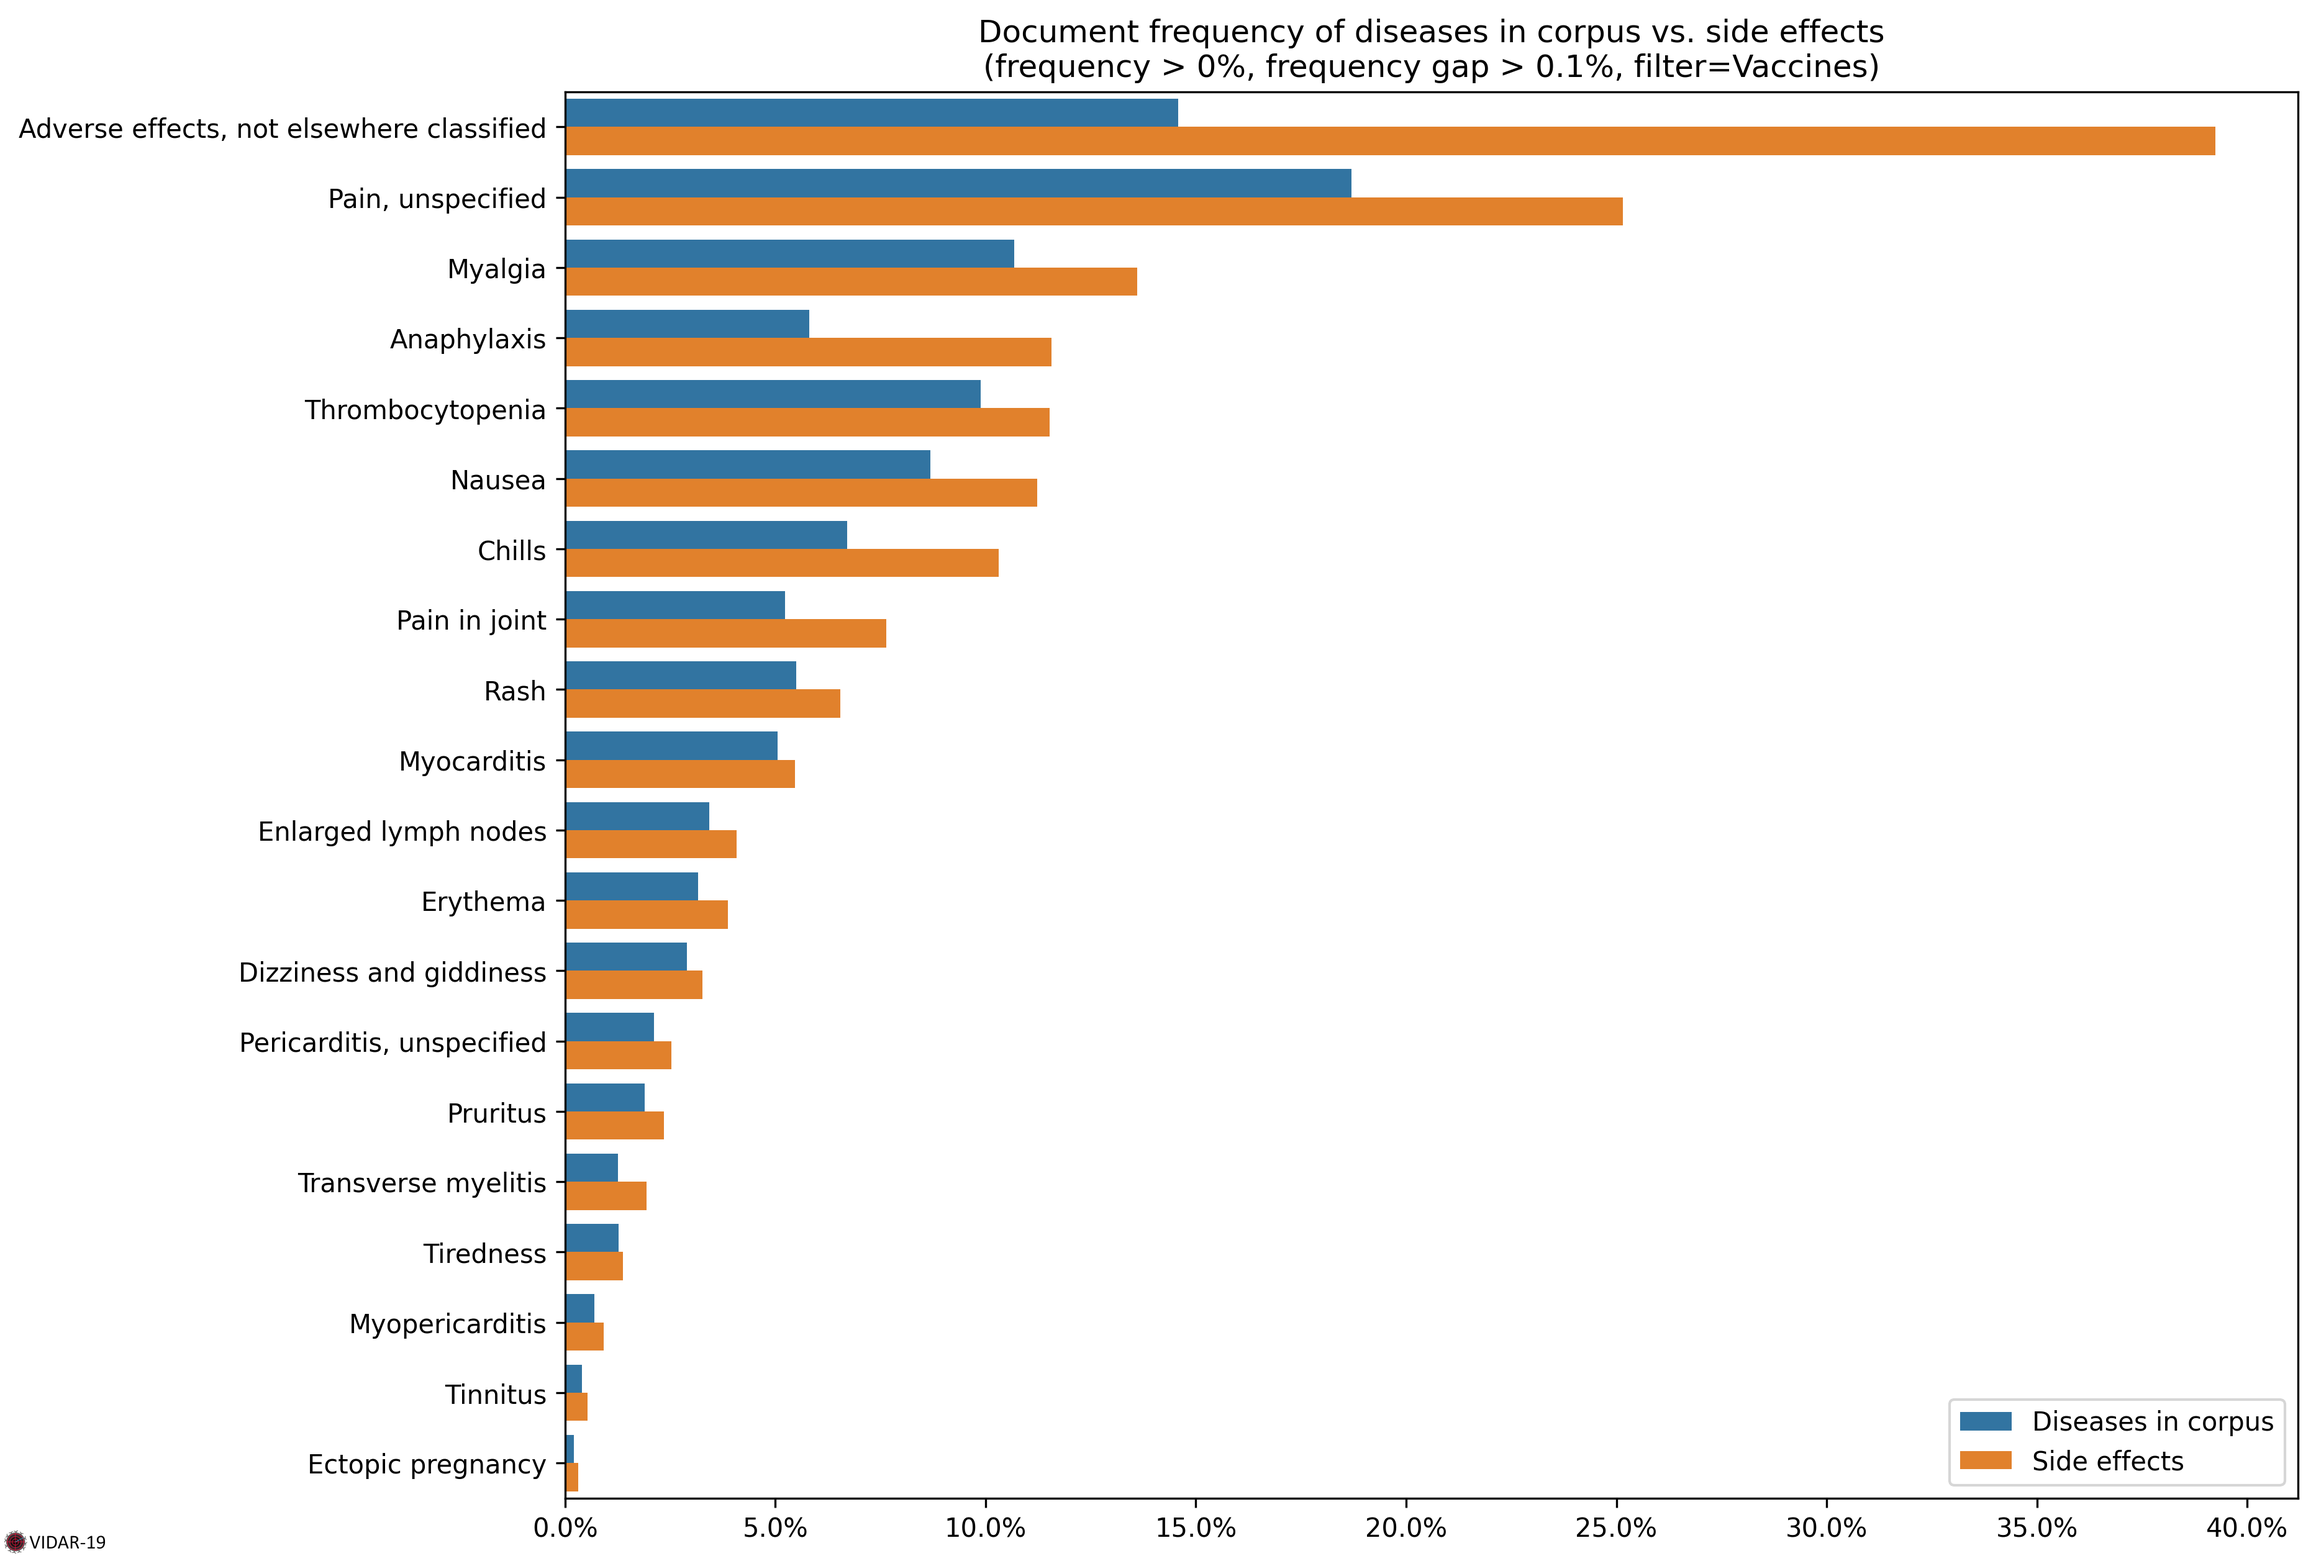
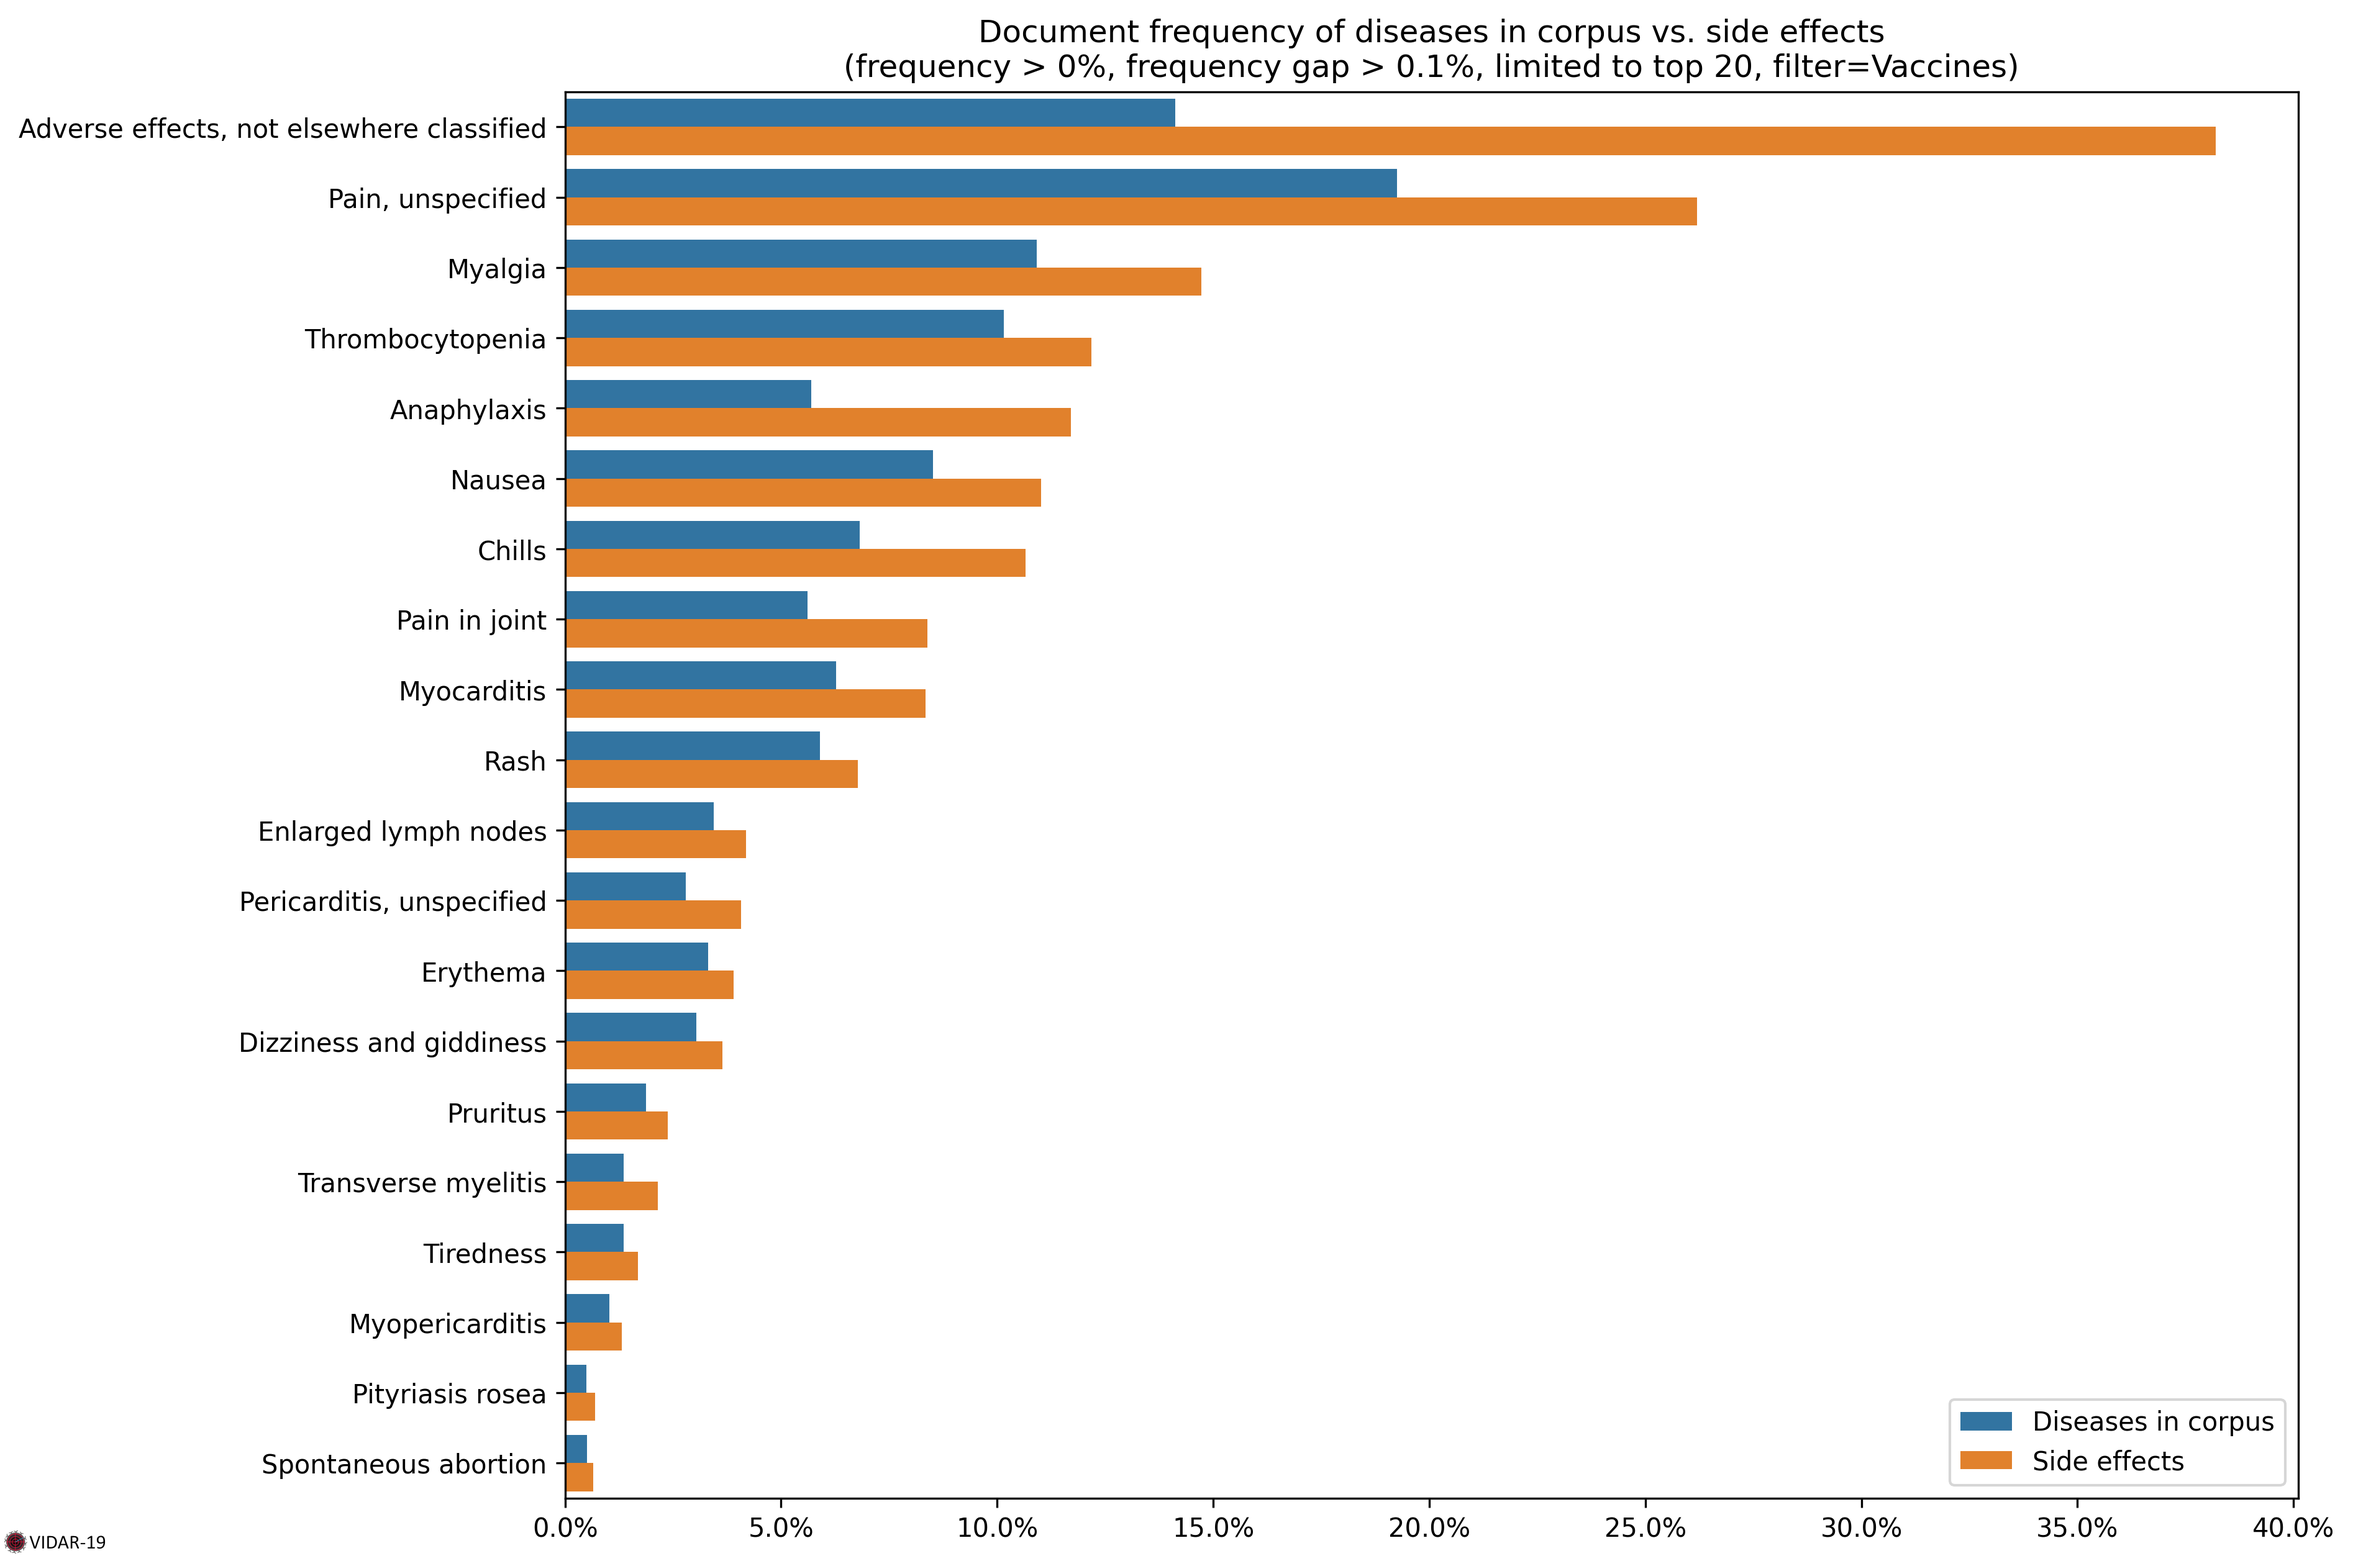
last update CORD-19

diff --git a/vaccines-side-effects.md b/vaccines-side-effects.md
@@ -10,24 +10,25 @@ As of 2/06/2022, vaccines side effects have been computed on 21K documents deali
 
 ### Table
 
-| Code   | Title                                     | Diseases in corpus | Side effects | Ratio |
-| :----- | :---------------------------------------- | -----------------: | -----------: | ----: |
-| NF09   | Adverse effects, not elsewhere classified |               14.6 |         39.2 |   2.7 |
-| MG3Z   | Pain, unspecified                         |               18.7 |         25.1 |   1.3 |
-| FB56.2 | Myalgia                                   |               10.7 |         13.6 |   1.3 |
-| 4A84   | Anaphylaxis                               |                5.8 |         11.6 |     2 |
-| 3B64   | Thrombocytopenia                          |                9.9 |         11.5 |   1.2 |
-| MD90.0 | Nausea                                    |                8.7 |         11.2 |   1.3 |
-| MG21   | Chills                                    |                6.7 |         10.3 |   1.5 |
-| ME82   | Pain in joint                             |                5.2 |          7.6 |   1.5 |
-| ME66.6 | Rash                                      |                5.5 |          6.5 |   1.2 |
-| BC42   | Myocarditis                               |                5.1 |          5.5 |   1.1 |
-| MA01   | Enlarged lymph nodes                      |                3.4 |          4.1 |   1.2 |
-| ME64.0 | Erythema                                  |                3.2 |          3.9 |   1.2 |
-| MB48   | Dizziness and giddiness                   |                2.9 |          3.3 |   1.1 |
-| BB2Z   | Pericarditis, unspecified                 |                2.1 |          2.5 |   1.2 |
-| EC90   | Pruritus                                  |                1.9 |          2.4 |   1.2 |
-| 8A41.0 | Transverse myelitis                       |                1.3 |          1.9 |   1.5 |
-| MB22.7 | Tiredness                                 |                1.3 |          1.4 |   1.1 |
-| BB20.2 | Myopericarditis                           |                0.7 |          0.9 |   1.3 |
-| MC41   | Tinnitus                                  |                0.4 |          0.5 |   1.5 |
+| Code   | Title                                     |   Diseases in corpus |   Side effects |   Ratio |
+|:-------|:------------------------------------------|---------------------:|---------------:|--------:|
+| NF09   | Adverse effects, not elsewhere classified |                 14.1 |           38.2 |     2.7 |
+| MG3Z   | Pain, unspecified                         |                 19.3 |           26.2 |     1.4 |
+| FB56.2 | Myalgia                                   |                 10.9 |           14.7 |     1.3 |
+| 3B64   | Thrombocytopenia                          |                 10.2 |           12.2 |     1.2 |
+| 4A84   | Anaphylaxis                               |                  5.7 |           11.7 |     2.1 |
+| MD90.0 | Nausea                                    |                  8.5 |           11   |     1.3 |
+| MG21   | Chills                                    |                  6.8 |           10.7 |     1.6 |
+| ME82   | Pain in joint                             |                  5.6 |            8.4 |     1.5 |
+| BC42   | Myocarditis                               |                  6.3 |            8.3 |     1.3 |
+| ME66.6 | Rash                                      |                  5.9 |            6.8 |     1.1 |
+| MA01   | Enlarged lymph nodes                      |                  3.4 |            4.2 |     1.2 |
+| BB2Z   | Pericarditis, unspecified                 |                  2.8 |            4.1 |     1.5 |
+| ME64.0 | Erythema                                  |                  3.3 |            3.9 |     1.2 |
+| MB48   | Dizziness and giddiness                   |                  3   |            3.6 |     1.2 |
+| EC90   | Pruritus                                  |                  1.9 |            2.4 |     1.3 |
+| 8A41.0 | Transverse myelitis                       |                  1.4 |            2.1 |     1.6 |
+| MB22.7 | Tiredness                                 |                  1.4 |            1.7 |     1.2 |
+| BB20.2 | Myopericarditis                           |                  1   |            1.3 |     1.3 |
+| EA10   | Pityriasis rosea                          |                  0.5 |            0.7 |     1.4 |
+| JA00.0 | Spontaneous abortion                      |                  0.5 |            0.6 |     1.3 |

diff --git a/covid-19-risk-factors.md b/covid-19-risk-factors.md
@@ -12,21 +12,21 @@ As of 2/06/2022, risk factors have been computed on 275K documents dealing with 
 
 ### Table
 
-| Code   | Title                                         | Diseases in corpus | Risk factors | Ratio |
-| :----- | :-------------------------------------------- | -----------------: | -----------: | ----: |
-| 5B81   | Obesity                                       |                8.8 |         19.3 |   2.2 |
-| MG2A   | Old age                                       |                5.3 |          7.7 |   1.4 |
-| 5A13   | Diabetes mellitus, other specified type       |                5.1 |          7.5 |   1.5 |
-| 8B20   | Stroke not known if ischaemic or haemorrhagic |                6.1 |          6.6 |   1.1 |
-| GB61   | Chronic kidney disease                        |                3.8 |          4.9 |   1.3 |
-| 5A11   | Type 2 diabetes mellitus                      |                3.3 |          4.2 |   1.3 |
-| 5B80.0 | Overweight                                    |                2.1 |          3.4 |   1.6 |
-| BA00   | Essential hypertension                        |                1.6 |          2.1 |   1.3 |
-| 5B57   | Vitamin D deficiency                          |                0.6 |            1 |   1.6 |
-| 1F2C   | Mucormycosis                                  |                0.3 |          0.7 |   2.3 |
-| DB92   | Non-alcoholic fatty liver disease             |                0.6 |          0.7 |   1.3 |
-| 6C40.1 | Harmful pattern of use of alcohol             |                0.6 |          0.7 |   1.2 |
-| 8B2Z   | Cerebrovascular diseases, unspecified         |                0.5 |          0.7 |   1.3 |
-| 5A24   | Uncontrolled or unstable diabetes mellitus    |                0.3 |          0.5 |   1.7 |
-| 3B61   | Thrombophilia                                 |                0.3 |          0.5 |   1.9 |
-| 1F20.0 | Invasive aspergillosis                        |                0.3 |          0.4 |   1.6 |
+| Code   | Title                                         |   Diseases in corpus |   Risk factors |   Ratio |
+|:-------|:----------------------------------------------|---------------------:|---------------:|--------:|
+| 5B81   | Obesity                                       |                  9.1 |           19.7 |     2.2 |
+| 5A13   | Diabetes mellitus, other specified type       |                  5.2 |            7.6 |     1.5 |
+| MG2A   | Old age                                       |                  5.4 |            7.5 |     1.4 |
+| 8B20   | Stroke not known if ischaemic or haemorrhagic |                  6.3 |            6.8 |     1.1 |
+| GB61   | Chronic kidney disease                        |                  3.8 |            5   |     1.3 |
+| 5A11   | Type 2 diabetes mellitus                      |                  3.5 |            4.4 |     1.2 |
+| 5B80.0 | Overweight                                    |                  2.3 |            3.6 |     1.6 |
+| BA00   | Essential hypertension                        |                  1.6 |            2.1 |     1.3 |
+| 5B57   | Vitamin D deficiency                          |                  0.6 |            1   |     1.7 |
+| 1F2C   | Mucormycosis                                  |                  0.4 |            0.9 |     2.3 |
+| DB92   | Non-alcoholic fatty liver disease             |                  0.6 |            0.7 |     1.3 |
+| 8B2Z   | Cerebrovascular diseases, unspecified         |                  0.5 |            0.7 |     1.3 |
+| 5A24   | Uncontrolled or unstable diabetes mellitus    |                  0.3 |            0.6 |     1.7 |
+| 3B61   | Thrombophilia                                 |                  0.3 |            0.5 |     1.9 |
+| 5C80.0 | Hypercholesterolaemia                         |                  0.3 |            0.4 |     1.4 |
+| 1F20.0 | Invasive aspergillosis                        |                  0.3 |            0.4 |     1.5 |
